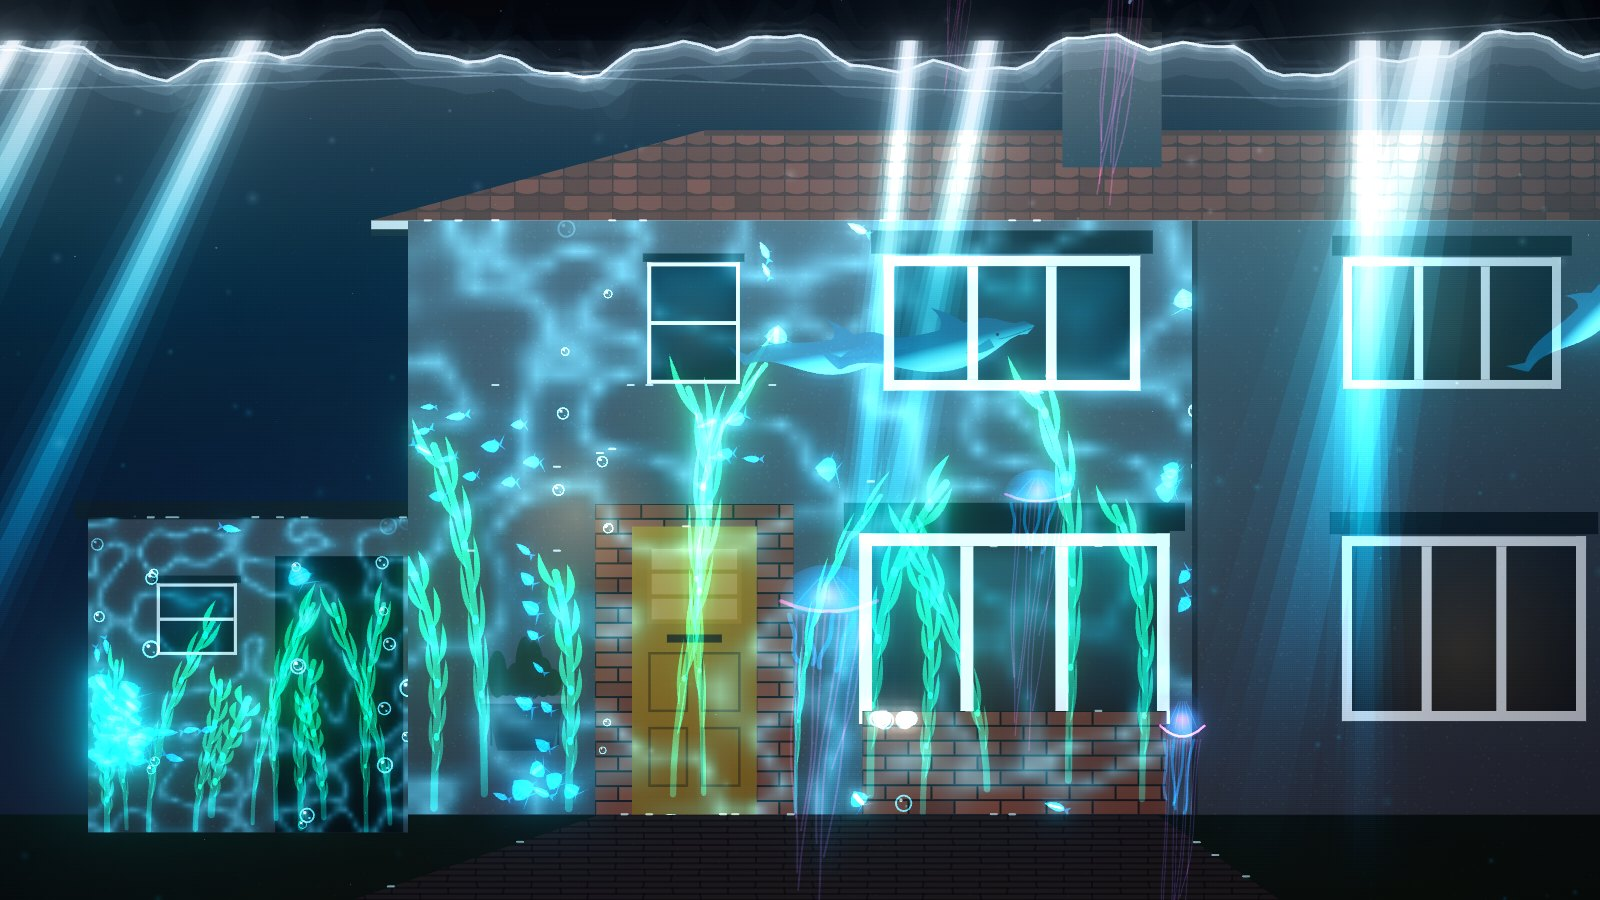
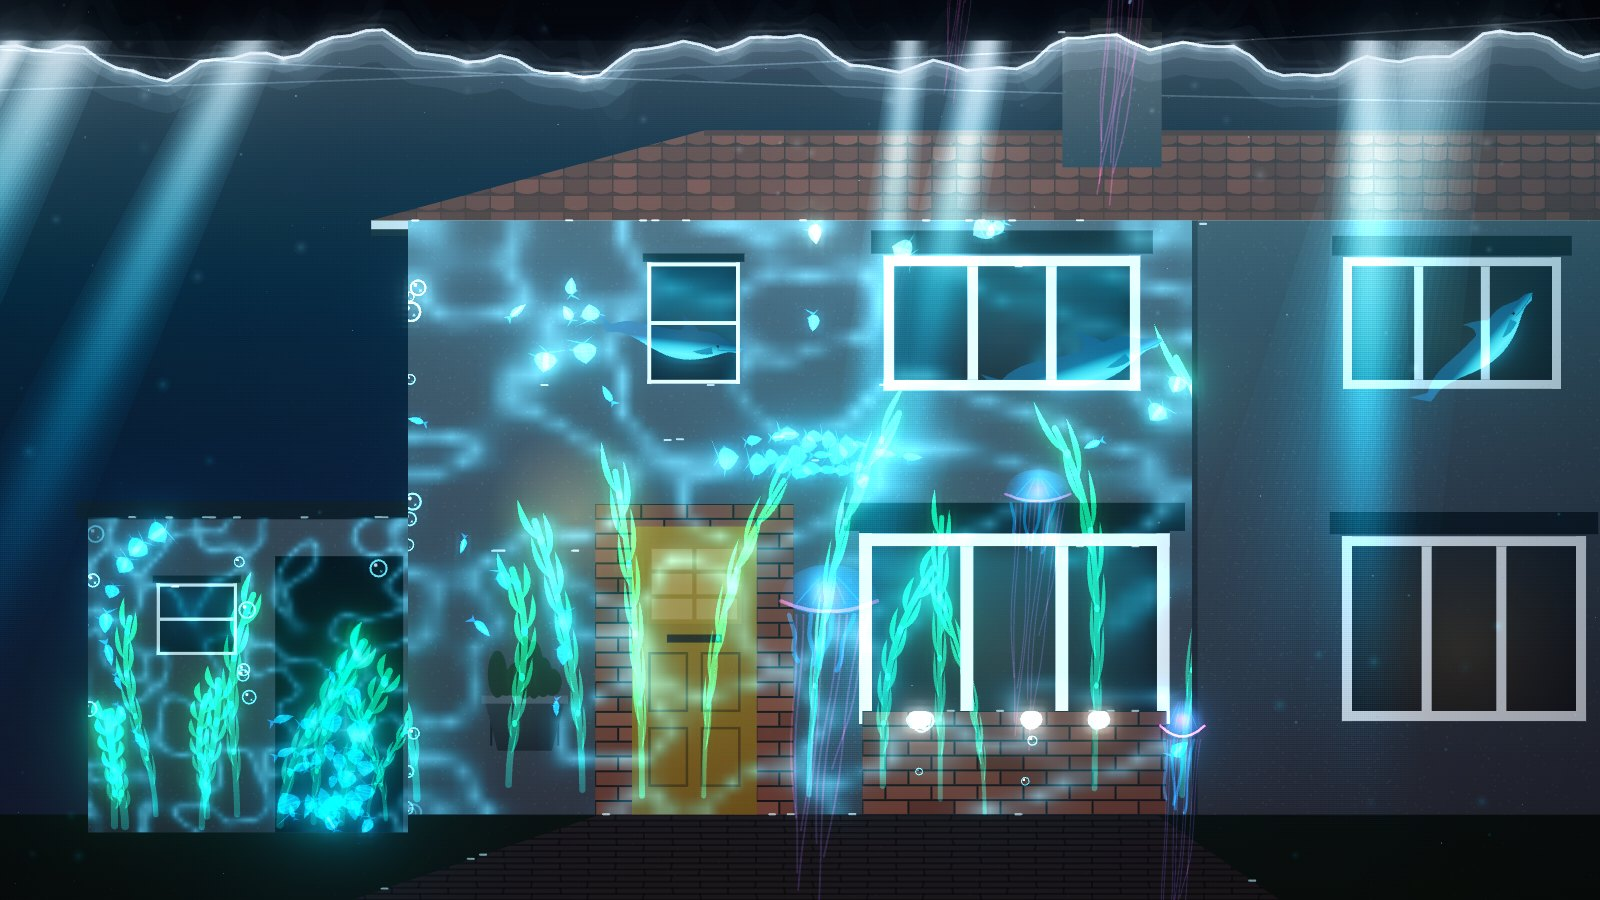
The water stops looking like cellophane and cut-outs
Two complaints from a real house, and they turned out to be two bugs.

**The shafts were a sixth of the width the slider said.** A shaft is
drawn as slices stacked additively inside one another, so what the eye
sees at a given distance from the centre is the *sum* of every slice
that reaches it. The alphas were the Gaussian evaluated at each slice's
own width — but for the sum to be a Gaussian, each slice has to carry
the **increment** between its reach and the previous one's.

With the raw values the innermost sliver carried full alpha and the
stack summed to three at the centre. So the beam clipped to flat white
over about a sixth of the width asked for, with a faint halo outside it
that read as a separate object: a hard bright stripe with an edge, which
is cellophane hung in front of the wall rather than light coming through
water. With increments the sum reaches one exactly at the centre and
falls off across the full width, and `peak` is raised to match, since the
old figure reached three times itself and was clipped there.

The slice count now follows how wide the beam is on the wall — about one
per ten pixels, four to twelve. A shaft forty pixels across looks
identical at four slices and at twelve, and a fan of forty narrow ones
would pay for the other eight on every one of them, every frame.

**And the creatures were polygons.** The kelp stipe, the dolphin
silhouette, its dorsal highlight and the jellyfish strands were all
[…]

diff --git a/js/effects/builtin/underwater.js b/js/effects/builtin/underwater.js
@@ -52,7 +52,7 @@
 import { rgba, clamp, lerp, TAU, mixHex, makeRng, smoothstep } from '../../core/math.js';
 import { waterAbsorb } from '../color.js';
 import { collectObstacles, deflect, nearestSurface, isClear } from '../obstacles.js';
-import { glow } from '../lib.js';
+import { glow, curveThrough } from '../lib.js';
 
 /* ------------------------------------------------------------------ *
  * Depth
@@ -210,16 +210,66 @@ export function orbitalDecay(z, lambda) {
 const SHAFT_STOPS = 6;
 
 /**
- * The cross-section of a shaft, as [width, alpha] pairs.
+ * The cross-section of a shaft, as [width, alpha] pairs, widest first.
  *
- * Widths halve geometrically; alphas are `exp(−2u²)` at the half-width, which
- * is what makes the stack add up to something with no edge in it. Precomputed
- * because it never changes and this is inside a per-shaft loop.
+ * The slices are drawn additively one inside the next, so what the eye sees at
+ * a given distance from the centre is the *sum* of every slice that reaches
+ * it. Getting a Gaussian section out of that means each slice carries the
+ * **increment** between its own reach and the previous one's — not the value
+ * of the curve at its own width, which is what this used to do.
+ *
+ * That distinction is the whole difference between a shaft and a streak. With
+ * the raw values the innermost sliver carried full alpha and the stack summed
+ * to three at the centre, so the beam clipped to flat white over about a sixth
+ * of the width the slider asked for, with a faint halo outside it that read as
+ * a separate thing. On a wall that is a hard bright stripe: cellophane, not
+ * light. With increments the sum reaches one exactly at the centre and falls
+ * off across the full width, which is what a shaft of sunlight in water
+ * actually looks like.
+ *
+ * Twelve slices rather than five, because the steps are now what you would see
+ * if you saw anything: each is under a tenth of the peak, which is below the
+ * threshold at which a gradient bands. Twelve fills of a quad is nothing next
+ * to the gradient each one is filled with, which is made once per shaft.
  */
-const SHAFT_SECTION = [1, 0.68, 0.46, 0.31, 0.16].map((scale) => [
-  scale,
-  Math.exp(-2 * scale * scale) / Math.exp(-2 * 0.16 * 0.16),
-]);
+const SHAFT_SLICES_MAX = 12;
+const SHAFT_SLICES_MIN = 4;
+
+/** Normalised so the centre is 1; 2.2 puts the knee inside the stated width. */
+const shaftReach = (scale) => Math.exp(-2.2 * scale * scale);
+
+/**
+ * A section for every slice count, built once.
+ *
+ * How many slices a shaft needs is a question about how wide it is on the
+ * wall, not about the effect: the steps are only visible if there are enough
+ * pixels between them to see. A shaft forty pixels across looks identical at
+ * four slices and at twelve, and a fan of forty narrow ones would pay for the
+ * other eight on every one of them, every frame.
+ */
+const SHAFT_SECTIONS = (() => {
+  const table = [];
+  for (let slices = 0; slices <= SHAFT_SLICES_MAX; slices++) {
+    if (slices < SHAFT_SLICES_MIN) { table.push(null); continue; }
+    const out = [];
+    let previous = 0;
+    for (let i = 0; i < slices; i++) {
+      // Down to a sliver rather than to zero: the last slice is the core.
+      const scale = 1 - (i / slices) * 0.93;
+      const here = shaftReach(scale);
+      out.push([scale, here - previous]);
+      previous = here;
+    }
+    table.push(out);
+  }
+  return table;
+})();
+
+/** As many slices as the width can show, and no more. About one per ten pixels. */
+function shaftSection(widthPx) {
+  const wanted = Math.round(widthPx / 10);
+  return SHAFT_SECTIONS[clamp(wanted, SHAFT_SLICES_MIN, SHAFT_SLICES_MAX)];
+}
 
 const godrays = {
   id: 'godrays',
@@ -313,7 +363,17 @@ const godrays = {
       // The shimmer is the surface breaking up, and it is independent per shaft
       // — a fan that brightens as one reads as a lamp behind a fan blade.
       const shimmer = 1 - p.shimmer * 0.5 * (0.5 + 0.5 * noise.noise2(i * 3.7, t * 0.9));
-      const peak = 0.5 * p.intensity * shimmer * (0.6 + 0.4 * focus);
+      /**
+       * Raised to match what the section now sums to.
+       *
+       * The old stack reached three times this at the centre and was clipped
+       * there by the compositor; the new one reaches one, so the same number
+       * would have made the shafts a third of the brightness they were. This
+       * is the figure that keeps a default shaft as bright as it looked, while
+       * spending that brightness across the width instead of piling it into a
+       * sliver.
+       */
+      const peak = 0.85 * p.intensity * shimmer * (0.6 + 0.4 * focus);
 
       const grad = g.createLinearGradient(originX, top, endX, endY);
       for (let s = 0; s < SHAFT_STOPS; s++) {
@@ -337,7 +397,7 @@ const godrays = {
        * than one plank because it looks like a mistake rather than a style.
        */
       g.fillStyle = grad;
-      for (const [scale, alpha] of SHAFT_SECTION) {
+      for (const [scale, alpha] of shaftSection(w1)) {
         g.globalAlpha = alpha;
         g.beginPath();
         g.moveTo(originX - w0 * scale * 0.5, top);
@@ -1381,9 +1441,11 @@ const kelp = {
       g.lineCap = 'round';
       g.lineJoin = 'round';
       g.lineWidth = width;
+      // Through the nodes rather than between them: fourteen straight pieces
+      // is fourteen straight pieces once the frond is a metre and a half tall
+      // on a wall. See `curveThrough`.
       g.beginPath();
-      g.moveTo(nx[0], ny[0]);
-      for (let i = 1; i <= KELP_NODES; i++) g.lineTo(nx[i], ny[i]);
+      curveThrough(g, nx, ny, KELP_NODES + 1, { move: true });
       g.stroke();
 
       // Gas bladders, which is what holds a real frond up and is also the one
@@ -1417,6 +1479,17 @@ const kelp = {
  * a jellyfish-shaped balloon bobbing on a spring.
  */
 const SQUEEZE = 0.28;
+
+/**
+ * One strand's points, gathered before it is traced.
+ *
+ * Module-level and reused, because this is inside a loop over every strand of
+ * every jellyfish on screen and a fresh pair of arrays per strand would be a
+ * few hundred allocations a frame for nothing. Sized well past the twelve
+ * segments a strand is drawn with.
+ */
+const strandX = new Float64Array(64);
+const strandY = new Float64Array(64);
 
 /**
  * How far back in time strand `s` reaches, in seconds.
@@ -1617,8 +1690,11 @@ const jellyfish = {
           const span = strandLag(s, p.trail);
           g.strokeStyle = rgba(isArm ? bell : rimColour, alpha * (isArm ? 0.75 : 0.4));
           g.lineWidth = Math.max(0.6, R * (isArm ? 0.11 : 0.05));
-          g.beginPath();
-          g.moveTo(now.x + anchorX, anchorY);
+          // Gathered first, then traced as a curve: a strand is a hanging
+          // thing and a chain of chords looks like a chain. See `curveThrough`.
+          let n = 0;
+          strandX[n] = now.x + anchorX;
+          strandY[n++] = anchorY;
           for (let k = 1; k <= segments; k++) {
             const u = k / segments;
             const past = bellAt(t - span * u, j, p, world, bbox);
@@ -1646,11 +1722,11 @@ const jellyfish = {
              */
             const wash = Math.exp(-u / WASH_LENGTH);
             const swing = clamp((now.surge - past.surge) * wash, -drop, drop);
-            g.lineTo(
-              now.x - (now.cx - past.cx) + splay,
-              anchorY - (now.ty - past.ty) + drop + swing
-            );
+            strandX[n] = now.x - (now.cx - past.cx) + splay;
+            strandY[n++] = anchorY - (now.ty - past.ty) + drop + swing;
           }
+          g.beginPath();
+          curveThrough(g, strandX, strandY, n, { move: true });
           g.stroke();
         }
       }
@@ -1893,6 +1969,9 @@ const bodyCx = new Float64Array(BODY_SEGMENTS + 1);
 const bodyCy = new Float64Array(BODY_SEGMENTS + 1);
 const bodyUp = new Float64Array(BODY_SEGMENTS + 1);
 const bodyDn = new Float64Array(BODY_SEGMENTS + 1);
+/** The silhouette as one run — up the back, down the belly — for `curveThrough`. */
+const outlineX = new Float64Array(BODY_SEGMENTS * 2 + 2);
+const outlineY = new Float64Array(BODY_SEGMENTS * 2 + 2);
 
 /**
  * Spray, thrown on real ballistics from a point on the surface.
@@ -2063,10 +2142,28 @@ const dolphins = {
       skin.addColorStop(1, rgba(mixHex(belly, back, 0.22), alpha));
       g.fillStyle = skin;
 
+      /**
+       * The silhouette, as a curve rather than as twenty-two chords.
+       *
+       * A body this size on a wall is two metres of animal, and at that scale
+       * a polygon reads as a polygon — the back comes out faceted and the
+       * whole thing looks like a cut-out. Collected into one run so the head
+       * and the peduncle are curves too, and closed back to the tip of the
+       * rostrum, which is a point on the centreline and the one corner the
+       * animal actually has.
+       */
+      let n = 0;
+      outlineX[n] = bodyCx[0]; outlineY[n++] = bodyCy[0];
+      for (let k = 1; k <= BODY_SEGMENTS; k++) {
+        outlineX[n] = bodyCx[k];
+        outlineY[n++] = bodyCy[k] - bodyUp[k];
+      }
+      for (let k = BODY_SEGMENTS; k >= 1; k--) {
+        outlineX[n] = bodyCx[k];
+        outlineY[n++] = bodyCy[k] + bodyDn[k];
+      }
       g.beginPath();
-      g.moveTo(bodyCx[0], bodyCy[0]);
-      for (let k = 1; k <= BODY_SEGMENTS; k++) g.lineTo(bodyCx[k], bodyCy[k] - bodyUp[k]);
-      for (let k = BODY_SEGMENTS; k >= 1; k--) g.lineTo(bodyCx[k], bodyCy[k] + bodyDn[k]);
+      curveThrough(g, outlineX, outlineY, n, { move: true });
       g.closePath();
       g.fill();
 
@@ -2156,9 +2253,14 @@ const dolphins = {
         g.strokeStyle = rgba('#ffffff', alpha * 0.2);
         g.lineWidth = Math.max(0.6, depth * 0.16);
         g.lineCap = 'round';
+        let r = 0;
+        outlineX[r] = bodyCx[3]; outlineY[r++] = bodyCy[3] - bodyUp[3] * 0.55;
+        for (let k = 4; k <= dorsalAt + 4; k++) {
+          outlineX[r] = bodyCx[k];
+          outlineY[r++] = bodyCy[k] - bodyUp[k] * 0.6;
+        }
         g.beginPath();
-        g.moveTo(bodyCx[3], bodyCy[3] - bodyUp[3] * 0.55);
-        for (let k = 4; k <= dorsalAt + 4; k++) g.lineTo(bodyCx[k], bodyCy[k] - bodyUp[k] * 0.6);
+        curveThrough(g, outlineX, outlineY, r, { move: true });
         g.stroke();
       }
 

diff --git a/js/effects/lib.js b/js/effects/lib.js
@@ -89,6 +89,38 @@ export {
 } from './collide.js';
 
 /**
+ * Trace a smooth curve through a run of sampled points, into the current path.
+ *
+ * The obvious way to draw a shape you have sampled — a frond bending in the
+ * swell, the outline of a body flexing as it swims — is `lineTo` between the
+ * samples, and it is wrong in a way that is invisible on a laptop and glaring
+ * on a house: at two metres across, a curve made of twenty straight pieces is
+ * visibly made of twenty straight pieces. The whole thing reads as low
+ * resolution, which on a projector is the difference between an animal and a
+ * cardboard cut-out of one.
+ *
+ * So each sample becomes the *control* point of a quadratic and the curve
+ * passes through the midpoints between them. The same trick the drawing pad
+ * uses on a stroke, and for the same reason. It costs exactly what `lineTo`
+ * costs — one path command per point — and needs no extra samples, because the
+ * smoothness comes from the curve rather than from more of them.
+ *
+ * Takes parallel arrays so a caller can keep scratch buffers and allocate
+ * nothing per frame. `move` starts a new subpath; leave it off to continue the
+ * one already open, which is how an outline traces up one side and back down
+ * the other.
+ */
+export function curveThrough(g, xs, ys, count = xs.length, { move = false } = {}) {
+  if (count < 1) return;
+  if (move) g.moveTo(xs[0], ys[0]);
+  else g.lineTo(xs[0], ys[0]);
+  for (let i = 1; i < count - 1; i++) {
+    g.quadraticCurveTo(xs[i], ys[i], (xs[i] + xs[i + 1]) / 2, (ys[i] + ys[i + 1]) / 2);
+  }
+  if (count > 1) g.lineTo(xs[count - 1], ys[count - 1]);
+}
+
+/**
  * A scratch canvas, for effects that accumulate or that pre-bake a sprite.
  *
  * Anything that only ever adds — frost spreading, ivy growing, a wet trail on

diff --git a/js/control/help.js b/js/control/help.js
@@ -655,6 +655,16 @@ export const HELP_SECTIONS = [
     </td>
   </tr>
   <tr>
+    <th><code>fx.curveThrough(g, xs, ys, n)</code></th>
+    <td>
+      A smooth curve through points you have sampled — a frond in the swell, the outline of a body
+      as it swims — instead of the straight chords <code>lineTo</code> would give you. At two
+      metres across, twenty chords look like twenty chords, and the whole thing reads as low
+      resolution. Each sample becomes the control point of a quadratic, so it costs exactly what
+      <code>lineTo</code> costs and needs no extra samples.
+    </td>
+  </tr>
+  <tr>
     <th><code>fx.offscreen(w, h)</code></th>
     <td>
       A scratch canvas, for effects that only ever add — growth, trails, accretion. Stroke into it

diff --git a/docs/writing-effects.md b/docs/writing-effects.md
@@ -130,8 +130,11 @@ volumetric.
 `isClear`, `findFreeSpot`, `nearestSurface`. For anything that travels across
 the facade and should treat the windows as solid.
 
-**Drawing** — `tracePoints`, `glow`, `verticalGradient`, `withClip`,
-`offscreen`.
+**Drawing** — `tracePoints`, `curveThrough`, `glow`, `verticalGradient`,
+`withClip`, `offscreen`. `curveThrough` is the one to reach for whenever you
+have sampled a shape rather than authored it: on a wall, a curve made of twenty
+straight pieces is visibly made of twenty straight pieces, and it costs the same
+as `lineTo` to draw it properly.
 
 ## Three rules
 
